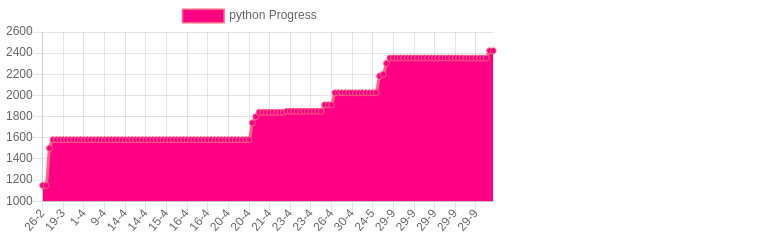
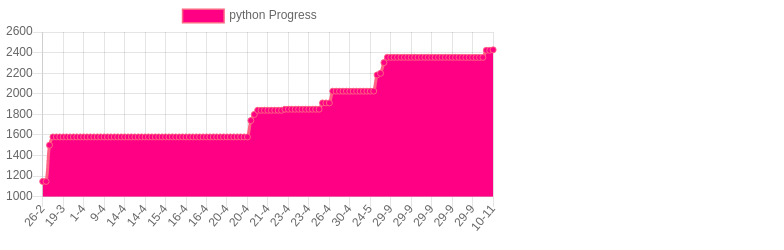
python aws s3

Changed region(s): [[0.0, 0.14, 0.6429, 0.644], [0.0, 0.672, 0.6429, 0.924]]

diff --git a/total.html b/total.html
@@ -9,7 +9,7 @@
         <script src="https://cdn.jsdelivr.net/npm/chart.js@2.8.0"></script>
         <script>
           var ctx = document.getElementById("total").getContext("2d");
-          const goLabelsDates = ["2021-02-27T01:37:43.112Z","2021-02-27T01:38:01.628Z","2021-03-01T13:41:18.753Z","2021-03-01T14:53:41.991Z","2021-03-01T15:08:00.851Z","2021-03-01T15:09:10.635Z","2021-03-01T15:22:55.385Z","2021-03-03T15:31:41.151Z","2021-03-05T14:02:13.446Z","2021-03-10T14:50:13.297Z","2021-03-11T01:54:03.424Z","2021-03-11T15:32:47.647Z","2021-03-11T16:01:51.191Z","2021-03-12T00:36:04.646Z","2021-03-13T00:14:58.179Z","2021-03-16T05:30:04.043Z","2021-03-17T21:17:52.181Z","2021-03-18T03:42:56.998Z","2021-03-18T03:44:29.834Z","2021-03-18T03:45:35.160Z","2021-03-18T03:45:54.668Z","2021-03-18T03:48:46.007Z","2021-03-18T05:10:54.427Z","2021-03-18T05:44:13.724Z","2021-03-18T05:56:11.032Z","2021-03-18T22:11:28.339Z","2021-03-19T11:28:55.383Z","2021-03-22T13:51:43.977Z","2021-03-23T01:52:09.452Z","2021-03-23T15:45:53.765Z","2021-03-24T01:46:02.104Z","2021-03-30T10:56:50.711Z","2021-04-01T15:03:17.764Z","2021-04-01T23:15:02.096Z","2021-04-07T19:21:55.040Z","2021-04-08T15:21:14.479Z","2021-04-09T23:17:58.037Z","2021-04-09T23:32:26.341Z","2021-04-09T23:34:42.049Z","2021-04-09T23:36:18.092Z","2021-04-10T01:45:40.218Z","2021-04-12T15:41:26.676Z","2021-04-14T02:00:41.039Z","2021-04-14T20:02:44.141Z","2021-04-14T21:14:15.821Z","2021-04-14T22:06:37.573Z","2021-04-14T22:42:14.693Z","2021-04-14T23:10:13.243Z","2021-04-14T23:22:54.824Z","2021-04-14T23:49:37.009Z","2021-04-15T02:28:51.974Z","2021-04-15T14:33:50.618Z","2021-04-15T15:09:11.104Z","2021-04-15T20:35:30.580Z","2021-04-16T00:04:33.158Z","2021-04-16T01:36:06.294Z","2021-04-16T01:53:35.992Z","2021-04-16T02:00:15.474Z","2021-04-16T16:08:40.977Z","2021-04-16T16:27:06.953Z","2021-04-16T16:59:30.526Z","2021-04-16T17:00:53.737Z","2021-04-16T23:14:36.283Z","2021-04-17T00:39:16.890Z","2021-04-17T01:11:09.986Z","2021-04-17T01:32:30.011Z","2021-04-17T01:44:22.446Z","2021-04-17T01:44:33.941Z","2021-04-17T02:35:55.774Z","2021-04-19T15:41:31.091Z","2021-04-20T15:32:32.239Z","2021-04-20T15:33:16.014Z","2021-04-20T15:36:11.438Z","2021-04-20T15:38:44.606Z","2021-04-20T15:41:50.350Z","2021-04-20T15:44:34.448Z","2021-04-20T15:46:49.295Z","2021-04-20T15:47:24.048Z","2021-04-20T15:56:22.046Z","2021-04-20T16:00:02.540Z","2021-04-20T16:01:15.511Z","2021-04-20T23:19:23.938Z","2021-04-21T00:40:54.443Z","2021-04-21T00:47:22.662Z","2021-04-21T02:01:09.006Z","2021-04-21T02:19:22.734Z","2021-04-21T15:53:36.038Z","2021-04-21T16:21:45.704Z","2021-04-21T16:26:32.790Z","2021-04-21T16:40:24.916Z","2021-04-21T16:43:40.235Z","2021-04-21T16:43:59.719Z","2021-04-21T16:44:40.304Z","2021-04-21T16:46:13.191Z","2021-04-21T16:48:41.898Z","2021-04-21T16:49:08.753Z","2021-04-21T16:50:32.397Z","2021-04-21T16:51:58.778Z","2021-04-23T00:49:32.826Z","2021-04-23T15:03:06.320Z","2021-04-23T15:04:13.039Z","2021-04-23T15:05:25.923Z","2021-04-23T15:11:04.285Z","2021-04-23T15:11:38.826Z","2021-04-23T15:12:05.618Z","2021-04-23T15:12:32.508Z","2021-04-23T15:13:17.058Z","2021-04-23T17:08:27.046Z","2021-04-23T18:02:30.357Z","2021-04-23T22:58:36.946Z","2021-04-23T23:00:26.027Z","2021-04-23T23:52:58.438Z","2021-04-24T01:12:51.525Z","2021-04-24T02:01:46.612Z","2021-04-26T12:46:47.336Z","2021-04-26T13:13:50.946Z","2021-04-26T13:16:04.473Z","2021-04-27T00:11:42.582Z","2021-04-30T03:26:37.101Z","2021-04-30T04:33:42.472Z","2021-04-30T05:15:42.646Z","2021-04-30T14:31:10.927Z","2021-05-04T01:51:49.907Z","2021-05-21T00:30:21.777Z","2021-05-24T15:07:09.579Z","2021-05-24T15:08:05.658Z","2021-05-24T15:22:20.903Z","2021-05-24T15:33:34.626Z","2021-05-24T15:46:16.101Z","2021-05-24T15:48:12.171Z","2021-05-24T15:53:54.498Z","2021-05-24T15:56:18.488Z","2021-05-28T22:50:32.914Z","2021-06-02T17:58:30.866Z","2021-07-01T05:04:25.826Z","2021-07-01T05:05:33.079Z","2021-09-03T16:56:54.023Z","2021-09-23T00:10:19.737Z","2021-09-23T00:54:30.987Z","2021-09-25T00:13:33.106Z","2021-09-25T00:56:09.874Z","2021-09-29T20:37:10.460Z","2021-09-29T20:39:45.107Z","2021-09-29T20:45:08.406Z","2021-09-29T20:45:42.995Z","2021-09-29T20:51:54.166Z","2021-09-29T21:04:45.487Z","2021-09-29T21:22:49.580Z","2021-09-29T21:23:34.860Z","2021-09-29T21:24:52.804Z","2021-09-29T21:25:12.938Z","2021-09-29T21:31:41.466Z","2021-09-29T21:32:02.856Z","2021-09-29T21:32:15.096Z","2021-09-29T21:37:01.273Z","2021-09-29T21:39:46.109Z","2021-09-29T21:40:23.862Z","2021-09-29T21:41:38.242Z","2021-09-29T21:45:36.053Z","2021-09-29T21:48:31.229Z","2021-09-29T21:49:46.414Z","2021-09-29T21:50:16.628Z","2021-09-29T21:52:23.035Z","2021-09-29T21:58:46.153Z","2021-09-29T21:59:06.075Z","2021-09-29T22:09:34.545Z","2021-09-29T22:24:59.487Z","2021-09-29T22:39:38.616Z","2021-09-29T23:07:40.178Z","2021-10-01T13:21:48.217Z","2021-10-01T14:11:47.682Z","2021-10-05T00:24:42.303Z","2021-10-05T14:36:34.233Z","2021-10-05T15:30:47.628Z","2021-10-13T14:16:32.194Z","2021-10-14T20:31:14.540Z","2021-10-15T02:04:50.667Z","2021-10-22T22:01:46.214Z","2021-10-26T00:04:54.365Z","2021-10-26T00:05:44.432Z","2021-10-26T13:52:24.065Z","2021-10-26T14:08:20.572Z",];
+          const goLabelsDates = ["2021-02-27T01:37:43.112Z","2021-02-27T01:38:01.628Z","2021-03-01T13:41:18.753Z","2021-03-01T14:53:41.991Z","2021-03-01T15:08:00.851Z","2021-03-01T15:09:10.635Z","2021-03-01T15:22:55.385Z","2021-03-03T15:31:41.151Z","2021-03-05T14:02:13.446Z","2021-03-10T14:50:13.297Z","2021-03-11T01:54:03.424Z","2021-03-11T15:32:47.647Z","2021-03-11T16:01:51.191Z","2021-03-12T00:36:04.646Z","2021-03-13T00:14:58.179Z","2021-03-16T05:30:04.043Z","2021-03-17T21:17:52.181Z","2021-03-18T03:42:56.998Z","2021-03-18T03:44:29.834Z","2021-03-18T03:45:35.160Z","2021-03-18T03:45:54.668Z","2021-03-18T03:48:46.007Z","2021-03-18T05:10:54.427Z","2021-03-18T05:44:13.724Z","2021-03-18T05:56:11.032Z","2021-03-18T22:11:28.339Z","2021-03-19T11:28:55.383Z","2021-03-22T13:51:43.977Z","2021-03-23T01:52:09.452Z","2021-03-23T15:45:53.765Z","2021-03-24T01:46:02.104Z","2021-03-30T10:56:50.711Z","2021-04-01T15:03:17.764Z","2021-04-01T23:15:02.096Z","2021-04-07T19:21:55.040Z","2021-04-08T15:21:14.479Z","2021-04-09T23:17:58.037Z","2021-04-09T23:32:26.341Z","2021-04-09T23:34:42.049Z","2021-04-09T23:36:18.092Z","2021-04-10T01:45:40.218Z","2021-04-12T15:41:26.676Z","2021-04-14T02:00:41.039Z","2021-04-14T20:02:44.141Z","2021-04-14T21:14:15.821Z","2021-04-14T22:06:37.573Z","2021-04-14T22:42:14.693Z","2021-04-14T23:10:13.243Z","2021-04-14T23:22:54.824Z","2021-04-14T23:49:37.009Z","2021-04-15T02:28:51.974Z","2021-04-15T14:33:50.618Z","2021-04-15T15:09:11.104Z","2021-04-15T20:35:30.580Z","2021-04-16T00:04:33.158Z","2021-04-16T01:36:06.294Z","2021-04-16T01:53:35.992Z","2021-04-16T02:00:15.474Z","2021-04-16T16:08:40.977Z","2021-04-16T16:27:06.953Z","2021-04-16T16:59:30.526Z","2021-04-16T17:00:53.737Z","2021-04-16T23:14:36.283Z","2021-04-17T00:39:16.890Z","2021-04-17T01:11:09.986Z","2021-04-17T01:32:30.011Z","2021-04-17T01:44:22.446Z","2021-04-17T01:44:33.941Z","2021-04-17T02:35:55.774Z","2021-04-19T15:41:31.091Z","2021-04-20T15:32:32.239Z","2021-04-20T15:33:16.014Z","2021-04-20T15:36:11.438Z","2021-04-20T15:38:44.606Z","2021-04-20T15:41:50.350Z","2021-04-20T15:44:34.448Z","2021-04-20T15:46:49.295Z","2021-04-20T15:47:24.048Z","2021-04-20T15:56:22.046Z","2021-04-20T16:00:02.540Z","2021-04-20T16:01:15.511Z","2021-04-20T23:19:23.938Z","2021-04-21T00:40:54.443Z","2021-04-21T00:47:22.662Z","2021-04-21T02:01:09.006Z","2021-04-21T02:19:22.734Z","2021-04-21T15:53:36.038Z","2021-04-21T16:21:45.704Z","2021-04-21T16:26:32.790Z","2021-04-21T16:40:24.916Z","2021-04-21T16:43:40.235Z","2021-04-21T16:43:59.719Z","2021-04-21T16:44:40.304Z","2021-04-21T16:46:13.191Z","2021-04-21T16:48:41.898Z","2021-04-21T16:49:08.753Z","2021-04-21T16:50:32.397Z","2021-04-21T16:51:58.778Z","2021-04-23T00:49:32.826Z","2021-04-23T15:03:06.320Z","2021-04-23T15:04:13.039Z","2021-04-23T15:05:25.923Z","2021-04-23T15:11:04.285Z","2021-04-23T15:11:38.826Z","2021-04-23T15:12:05.618Z","2021-04-23T15:12:32.508Z","2021-04-23T15:13:17.058Z","2021-04-23T17:08:27.046Z","2021-04-23T18:02:30.357Z","2021-04-23T22:58:36.946Z","2021-04-23T23:00:26.027Z","2021-04-23T23:52:58.438Z","2021-04-24T01:12:51.525Z","2021-04-24T02:01:46.612Z","2021-04-26T12:46:47.336Z","2021-04-26T13:13:50.946Z","2021-04-26T13:16:04.473Z","2021-04-27T00:11:42.582Z","2021-04-30T03:26:37.101Z","2021-04-30T04:33:42.472Z","2021-04-30T05:15:42.646Z","2021-04-30T14:31:10.927Z","2021-05-04T01:51:49.907Z","2021-05-21T00:30:21.777Z","2021-05-24T15:07:09.579Z","2021-05-24T15:08:05.658Z","2021-05-24T15:22:20.903Z","2021-05-24T15:33:34.626Z","2021-05-24T15:46:16.101Z","2021-05-24T15:48:12.171Z","2021-05-24T15:53:54.498Z","2021-05-24T15:56:18.488Z","2021-05-28T22:50:32.914Z","2021-06-02T17:58:30.866Z","2021-07-01T05:04:25.826Z","2021-07-01T05:05:33.079Z","2021-09-03T16:56:54.023Z","2021-09-23T00:10:19.737Z","2021-09-23T00:54:30.987Z","2021-09-25T00:13:33.106Z","2021-09-25T00:56:09.874Z","2021-09-29T20:37:10.460Z","2021-09-29T20:39:45.107Z","2021-09-29T20:45:08.406Z","2021-09-29T20:45:42.995Z","2021-09-29T20:51:54.166Z","2021-09-29T21:04:45.487Z","2021-09-29T21:22:49.580Z","2021-09-29T21:23:34.860Z","2021-09-29T21:24:52.804Z","2021-09-29T21:25:12.938Z","2021-09-29T21:31:41.466Z","2021-09-29T21:32:02.856Z","2021-09-29T21:32:15.096Z","2021-09-29T21:37:01.273Z","2021-09-29T21:39:46.109Z","2021-09-29T21:40:23.862Z","2021-09-29T21:41:38.242Z","2021-09-29T21:45:36.053Z","2021-09-29T21:48:31.229Z","2021-09-29T21:49:46.414Z","2021-09-29T21:50:16.628Z","2021-09-29T21:52:23.035Z","2021-09-29T21:58:46.153Z","2021-09-29T21:59:06.075Z","2021-09-29T22:09:34.545Z","2021-09-29T22:24:59.487Z","2021-09-29T22:39:38.616Z","2021-09-29T23:07:40.178Z","2021-10-01T13:21:48.217Z","2021-10-01T14:11:47.682Z","2021-10-05T00:24:42.303Z","2021-10-05T14:36:34.233Z","2021-10-05T15:30:47.628Z","2021-10-13T14:16:32.194Z","2021-10-14T20:31:14.540Z","2021-10-15T02:04:50.667Z","2021-10-22T22:01:46.214Z","2021-10-26T00:04:54.365Z","2021-10-26T00:05:44.432Z","2021-10-26T13:52:24.065Z","2021-10-26T14:08:20.572Z","2021-11-11T01:24:39.296Z",];
           var chart = new Chart(ctx, {
             type: 'line',
             data: {
@@ -18,7 +18,7 @@
                 label: 'total Progress',
                 backgroundColor: 'rgb(255, 0, 132)',
                 borderColor: 'rgb(255, 99, 132)',
-                data: [7975,7975,8307,8526,8526,8527,8573,9171,9358,9751,9908,10232,10231,10643,10911,11353,12576,12666,0,0,169,12835,12906,12953,12953,13141,13254,13354,13406,13417,13568,13708,13845,14886,15140,15267,15766,15777,15777,15777,16211,16345,17062,17247,17324,17464,17697,17849,17916,18002,18002,18202,18292,18515,18590,18744,18837,18876,19030,19086,19114,19143,19378,19465,19607,19714,19782,19782,19791,20220,20257,20257,20257,20257,20257,20257,20257,20257,20257,20257,20257,21179,21238,21279,21319,21319,21430,21506,21543,65995,0,44452,44452,44452,20233,20233,1629,23172,23326,23693,23693,23693,23693,23693,23693,23693,23693,23693,23693,23693,23693,23905,24023,24262,24275,24376,24376,24452,25078,25182,25238,25232,25233,25334,23696,25427,25453,25466,25491,11565,5707,5707,4421,4535,4535,3678,3678,3678,5861,5318,5422,5473,12667,12667,12667,12667,12667,12667,12667,12667,12667,12667,12667,12667,12667,12667,12667,12667,12667,12667,12658,12658,12657,12657,12657,12657,12683,12736,12779,12888,2619,2775,9772,9922,10674,1795,1824,2002,2000,422,468,543,]
+                data: [7975,7975,8307,8526,8526,8527,8573,9171,9358,9751,9908,10232,10231,10643,10911,11353,12576,12666,0,0,169,12835,12906,12953,12953,13141,13254,13354,13406,13417,13568,13708,13845,14886,15140,15267,15766,15777,15777,15777,16211,16345,17062,17247,17324,17464,17697,17849,17916,18002,18002,18202,18292,18515,18590,18744,18837,18876,19030,19086,19114,19143,19378,19465,19607,19714,19782,19782,19791,20220,20257,20257,20257,20257,20257,20257,20257,20257,20257,20257,20257,21179,21238,21279,21319,21319,21430,21506,21543,65995,0,44452,44452,44452,20233,20233,1629,23172,23326,23693,23693,23693,23693,23693,23693,23693,23693,23693,23693,23693,23693,23905,24023,24262,24275,24376,24376,24452,25078,25182,25238,25232,25233,25334,23696,25427,25453,25466,25491,11565,5707,5707,4421,4535,4535,3678,3678,3678,5861,5318,5422,5473,12667,12667,12667,12667,12667,12667,12667,12667,12667,12667,12667,12667,12667,12667,12667,12667,12667,12667,12658,12658,12657,12657,12657,12657,12683,12736,12779,12888,2619,2775,9772,9922,10674,1795,1824,2002,2000,422,468,543,2427,]
               }]
             },
           });

diff --git a/python.html b/python.html
@@ -9,7 +9,7 @@
         <script src="https://cdn.jsdelivr.net/npm/chart.js@2.8.0"></script>
         <script>
           var ctx = document.getElementById("python").getContext("2d");
-          const goLabelsDates = ["2021-02-27T01:37:43.111Z","2021-02-27T01:38:01.627Z","2021-03-03T15:31:41.151Z","2021-03-18T05:44:13.724Z","2021-03-18T05:56:11.032Z","2021-03-18T22:11:28.339Z","2021-03-19T11:28:55.382Z","2021-03-22T13:51:43.976Z","2021-03-23T01:52:09.451Z","2021-03-23T15:45:53.764Z","2021-03-24T01:46:02.103Z","2021-03-30T10:56:50.710Z","2021-04-01T15:03:17.763Z","2021-04-01T23:15:02.095Z","2021-04-07T19:21:55.039Z","2021-04-08T15:21:14.478Z","2021-04-09T23:17:58.036Z","2021-04-09T23:32:26.340Z","2021-04-09T23:34:42.048Z","2021-04-09T23:36:18.091Z","2021-04-10T01:45:40.217Z","2021-04-12T15:41:26.675Z","2021-04-14T02:00:41.039Z","2021-04-14T20:02:44.140Z","2021-04-14T21:14:15.820Z","2021-04-14T22:06:37.573Z","2021-04-14T22:42:14.693Z","2021-04-14T23:10:13.242Z","2021-04-14T23:22:54.823Z","2021-04-14T23:49:37.009Z","2021-04-15T02:28:51.973Z","2021-04-15T14:33:50.618Z","2021-04-15T15:09:11.102Z","2021-04-15T20:35:30.579Z","2021-04-16T00:04:33.157Z","2021-04-16T01:36:06.293Z","2021-04-16T01:53:35.991Z","2021-04-16T02:00:15.473Z","2021-04-16T16:08:40.976Z","2021-04-16T16:27:06.952Z","2021-04-16T16:59:30.524Z","2021-04-16T17:00:53.733Z","2021-04-16T23:14:36.282Z","2021-04-17T00:39:16.888Z","2021-04-17T01:11:09.985Z","2021-04-17T01:32:30.008Z","2021-04-17T01:44:22.444Z","2021-04-17T01:44:33.940Z","2021-04-17T02:35:55.773Z","2021-04-19T15:41:31.090Z","2021-04-20T15:32:32.238Z","2021-04-20T15:33:16.013Z","2021-04-20T15:36:11.438Z","2021-04-20T15:38:44.605Z","2021-04-20T15:41:50.349Z","2021-04-20T15:44:34.447Z","2021-04-20T15:46:49.294Z","2021-04-20T15:47:24.047Z","2021-04-20T15:56:22.045Z","2021-04-20T16:00:02.539Z","2021-04-20T16:01:15.511Z","2021-04-20T23:19:23.937Z","2021-04-21T00:40:54.442Z","2021-04-21T00:47:22.661Z","2021-04-21T02:01:09.005Z","2021-04-21T02:19:22.733Z","2021-04-21T15:53:36.037Z","2021-04-21T16:21:45.703Z","2021-04-21T16:26:32.789Z","2021-04-21T16:40:24.916Z","2021-04-21T16:51:58.777Z","2021-04-23T00:49:32.825Z","2021-04-23T15:03:06.327Z","2021-04-23T15:04:13.044Z","2021-04-23T15:05:25.923Z","2021-04-23T15:13:17.062Z","2021-04-23T17:08:27.045Z","2021-04-23T18:02:30.355Z","2021-04-23T22:58:36.945Z","2021-04-23T23:00:26.027Z","2021-04-23T23:52:58.438Z","2021-04-24T01:12:51.524Z","2021-04-24T02:01:46.611Z","2021-04-26T12:46:47.335Z","2021-04-26T13:13:50.945Z","2021-04-26T13:16:04.472Z","2021-04-27T00:11:42.580Z","2021-04-30T03:26:37.099Z","2021-04-30T04:33:42.472Z","2021-04-30T05:15:42.645Z","2021-04-30T14:31:10.926Z","2021-05-04T01:51:49.906Z","2021-05-21T00:30:21.772Z","2021-05-24T15:07:09.573Z","2021-05-24T15:08:05.657Z","2021-05-24T15:22:20.902Z","2021-05-24T15:33:34.625Z","2021-05-24T15:46:16.101Z","2021-09-23T00:54:30.986Z","2021-09-25T00:13:33.105Z","2021-09-25T00:56:09.873Z","2021-09-29T20:37:10.457Z","2021-09-29T20:39:45.106Z","2021-09-29T20:45:08.405Z","2021-09-29T20:45:42.993Z","2021-09-29T20:51:54.165Z","2021-09-29T21:04:45.486Z","2021-09-29T21:22:49.579Z","2021-09-29T21:23:34.859Z","2021-09-29T21:24:52.803Z","2021-09-29T21:25:12.937Z","2021-09-29T21:31:41.464Z","2021-09-29T21:32:02.854Z","2021-09-29T21:32:15.094Z","2021-09-29T21:36:24.778Z","2021-09-29T21:37:01.272Z","2021-09-29T21:39:46.106Z","2021-09-29T21:40:23.860Z","2021-09-29T21:41:38.230Z","2021-09-29T21:45:36.050Z","2021-09-29T21:48:31.221Z","2021-09-29T21:49:46.411Z","2021-09-29T21:50:16.624Z","2021-09-29T21:52:23.032Z","2021-09-29T21:58:46.150Z","2021-09-29T21:59:06.072Z","2021-09-29T22:09:34.542Z","2021-09-29T22:24:59.484Z","2021-09-29T22:39:38.613Z","2021-09-29T23:07:40.175Z","2021-10-01T13:21:48.213Z","2021-10-01T14:11:47.679Z",];
+          const goLabelsDates = ["2021-02-27T01:37:43.111Z","2021-02-27T01:38:01.627Z","2021-03-03T15:31:41.151Z","2021-03-18T05:44:13.724Z","2021-03-18T05:56:11.032Z","2021-03-18T22:11:28.339Z","2021-03-19T11:28:55.382Z","2021-03-22T13:51:43.976Z","2021-03-23T01:52:09.451Z","2021-03-23T15:45:53.764Z","2021-03-24T01:46:02.103Z","2021-03-30T10:56:50.710Z","2021-04-01T15:03:17.763Z","2021-04-01T23:15:02.095Z","2021-04-07T19:21:55.039Z","2021-04-08T15:21:14.478Z","2021-04-09T23:17:58.036Z","2021-04-09T23:32:26.340Z","2021-04-09T23:34:42.048Z","2021-04-09T23:36:18.091Z","2021-04-10T01:45:40.217Z","2021-04-12T15:41:26.675Z","2021-04-14T02:00:41.039Z","2021-04-14T20:02:44.140Z","2021-04-14T21:14:15.820Z","2021-04-14T22:06:37.573Z","2021-04-14T22:42:14.693Z","2021-04-14T23:10:13.242Z","2021-04-14T23:22:54.823Z","2021-04-14T23:49:37.009Z","2021-04-15T02:28:51.973Z","2021-04-15T14:33:50.618Z","2021-04-15T15:09:11.102Z","2021-04-15T20:35:30.579Z","2021-04-16T00:04:33.157Z","2021-04-16T01:36:06.293Z","2021-04-16T01:53:35.991Z","2021-04-16T02:00:15.473Z","2021-04-16T16:08:40.976Z","2021-04-16T16:27:06.952Z","2021-04-16T16:59:30.524Z","2021-04-16T17:00:53.733Z","2021-04-16T23:14:36.282Z","2021-04-17T00:39:16.888Z","2021-04-17T01:11:09.985Z","2021-04-17T01:32:30.008Z","2021-04-17T01:44:22.444Z","2021-04-17T01:44:33.940Z","2021-04-17T02:35:55.773Z","2021-04-19T15:41:31.090Z","2021-04-20T15:32:32.238Z","2021-04-20T15:33:16.013Z","2021-04-20T15:36:11.438Z","2021-04-20T15:38:44.605Z","2021-04-20T15:41:50.349Z","2021-04-20T15:44:34.447Z","2021-04-20T15:46:49.294Z","2021-04-20T15:47:24.047Z","2021-04-20T15:56:22.045Z","2021-04-20T16:00:02.539Z","2021-04-20T16:01:15.511Z","2021-04-20T23:19:23.937Z","2021-04-21T00:40:54.442Z","2021-04-21T00:47:22.661Z","2021-04-21T02:01:09.005Z","2021-04-21T02:19:22.733Z","2021-04-21T15:53:36.037Z","2021-04-21T16:21:45.703Z","2021-04-21T16:26:32.789Z","2021-04-21T16:40:24.916Z","2021-04-21T16:51:58.777Z","2021-04-23T00:49:32.825Z","2021-04-23T15:03:06.327Z","2021-04-23T15:04:13.044Z","2021-04-23T15:05:25.923Z","2021-04-23T15:13:17.062Z","2021-04-23T17:08:27.045Z","2021-04-23T18:02:30.355Z","2021-04-23T22:58:36.945Z","2021-04-23T23:00:26.027Z","2021-04-23T23:52:58.438Z","2021-04-24T01:12:51.524Z","2021-04-24T02:01:46.611Z","2021-04-26T12:46:47.335Z","2021-04-26T13:13:50.945Z","2021-04-26T13:16:04.472Z","2021-04-27T00:11:42.580Z","2021-04-30T03:26:37.099Z","2021-04-30T04:33:42.472Z","2021-04-30T05:15:42.645Z","2021-04-30T14:31:10.926Z","2021-05-04T01:51:49.906Z","2021-05-21T00:30:21.772Z","2021-05-24T15:07:09.573Z","2021-05-24T15:08:05.657Z","2021-05-24T15:22:20.902Z","2021-05-24T15:33:34.625Z","2021-05-24T15:46:16.101Z","2021-09-23T00:54:30.986Z","2021-09-25T00:13:33.105Z","2021-09-25T00:56:09.873Z","2021-09-29T20:37:10.457Z","2021-09-29T20:39:45.106Z","2021-09-29T20:45:08.405Z","2021-09-29T20:45:42.993Z","2021-09-29T20:51:54.165Z","2021-09-29T21:04:45.486Z","2021-09-29T21:22:49.579Z","2021-09-29T21:23:34.859Z","2021-09-29T21:24:52.803Z","2021-09-29T21:25:12.937Z","2021-09-29T21:31:41.464Z","2021-09-29T21:32:02.854Z","2021-09-29T21:32:15.094Z","2021-09-29T21:36:24.778Z","2021-09-29T21:37:01.272Z","2021-09-29T21:39:46.106Z","2021-09-29T21:40:23.860Z","2021-09-29T21:41:38.230Z","2021-09-29T21:45:36.050Z","2021-09-29T21:48:31.221Z","2021-09-29T21:49:46.411Z","2021-09-29T21:50:16.624Z","2021-09-29T21:52:23.032Z","2021-09-29T21:58:46.150Z","2021-09-29T21:59:06.072Z","2021-09-29T22:09:34.542Z","2021-09-29T22:24:59.484Z","2021-09-29T22:39:38.613Z","2021-09-29T23:07:40.175Z","2021-10-01T13:21:48.213Z","2021-10-01T14:11:47.679Z","2021-11-11T01:24:39.291Z",];
           var chart = new Chart(ctx, {
             type: 'line',
             data: {
@@ -18,7 +18,7 @@
                 label: 'python Progress',
                 backgroundColor: 'rgb(255, 0, 132)',
                 borderColor: 'rgb(255, 99, 132)',
-                data: [1149,1149,1501,1581,1581,1581,1581,1581,1581,1581,1581,1581,1581,1581,1581,1581,1581,1581,1581,1581,1581,1581,1581,1581,1581,1581,1581,1581,1581,1581,1581,1581,1581,1581,1581,1581,1581,1581,1581,1581,1581,1581,1581,1581,1581,1581,1581,1581,1581,1581,1581,1581,1581,1581,1581,1581,1581,1581,1581,1581,1581,1740,1799,1840,1840,1840,1840,1840,1840,1840,1840,1850,1850,1850,1850,1850,1850,1850,1850,1850,1850,1850,1911,1911,1911,2025,2025,2025,2025,2025,2025,2025,2025,2025,2025,2025,2025,2026,2183,2199,2303,2354,2354,2354,2354,2354,2354,2354,2354,2354,2354,2354,2354,2354,2354,2354,2354,2354,2354,2354,2354,2354,2354,2353,2353,2353,2353,2353,2353,2353,2422,2422,]
+                data: [1149,1149,1501,1581,1581,1581,1581,1581,1581,1581,1581,1581,1581,1581,1581,1581,1581,1581,1581,1581,1581,1581,1581,1581,1581,1581,1581,1581,1581,1581,1581,1581,1581,1581,1581,1581,1581,1581,1581,1581,1581,1581,1581,1581,1581,1581,1581,1581,1581,1581,1581,1581,1581,1581,1581,1581,1581,1581,1581,1581,1581,1740,1799,1840,1840,1840,1840,1840,1840,1840,1840,1850,1850,1850,1850,1850,1850,1850,1850,1850,1850,1850,1911,1911,1911,2025,2025,2025,2025,2025,2025,2025,2025,2025,2025,2025,2025,2026,2183,2199,2303,2354,2354,2354,2354,2354,2354,2354,2354,2354,2354,2354,2354,2354,2354,2354,2354,2354,2354,2354,2354,2354,2354,2353,2353,2353,2353,2353,2353,2353,2422,2422,2427,]
               }]
             },
           });

diff --git a/config.js b/config.js
@@ -8,15 +8,15 @@ const configLn = [
     src: ['../../react-native/reactnDoctor1/components', '../../react-native/reactnDoctor1/screens', '../../react-native/reactnDoctor1/navigation', '../../react-native/reactnDoctor1/hooks'],
     goal: 2000
   }, */
- /*  {
-    ln: 'denti-code',
-    title: "JavaScript Denti",
-    subjects: [
-      "react,", "hooks"
-    ],
-    src: ['../../node/denti-code/src', '../../node/denti-code-server'],
-    goal: 2000
-  }, */
+  /*  {
+     ln: 'denti-code',
+     title: "JavaScript Denti",
+     subjects: [
+       "react,", "hooks"
+     ],
+     src: ['../../node/denti-code/src', '../../node/denti-code-server'],
+     goal: 2000
+   }, */
   /* {
     ln: 'shopping-cart',
     title: "React Shopping Cart",
@@ -34,14 +34,14 @@ const configLn = [
     ],
     goal: 7000
   }, */
-  {
+  /* {
     ln: 'react',
     title: "React",
     subjects: [
       "Testing, builds"
     ],
     goal: 1000
-  },
+  }, */
   /*  {
      ln: 'ts',
      title: "TS",
@@ -80,12 +80,12 @@ const configLn = [
     subjects: ["structs", "loops"],
     goal: 3000
   }, */
-  /* {
+  {
     ln: 'python',
     title: "python",
     subjects: ["collections", ""],
     goal: 2000
-  }, */
+  },
   /* {
     ln: 'ruby',
     title: "ruby",

diff --git a/Readme.md b/Readme.md
@@ -1,11 +1,11 @@
 # All count
 |Language|Goal|Lines%|%|%|%|Subjects|
 |----------|-------|-------|--------|--------|--------|--------|
-|react|1000|543|54|![react](https://raw.githubusercontent.com/kapit4n/l-10000-dev/master/react.png)|Testing, builds|custom hook session, react context local staorage, react context update, react context, react custom hook, react hooks tips, react hooks, components|
-|TOTAL|543|5.430%|
+|python|10000|2427|24|![python](https://raw.githubusercontent.com/kapit4n/l-10000-dev/master/python.png)|collections, |algorithms, aws s3 boyo3, django pdf, django tips, unit tests, yield|
+|TOTAL|2427|24.270%|
 10/02(0)
 
-10/03(543)
+10/03(2427)
 
 
   # run it
@@ -28,4 +28,4 @@
   * Angular, React, Vue
   * Spring, Play
   * Scala, Java
-  , 2021-10-26T14:08:20.573Z
+  , 2021-11-11T01:24:39.296Z
